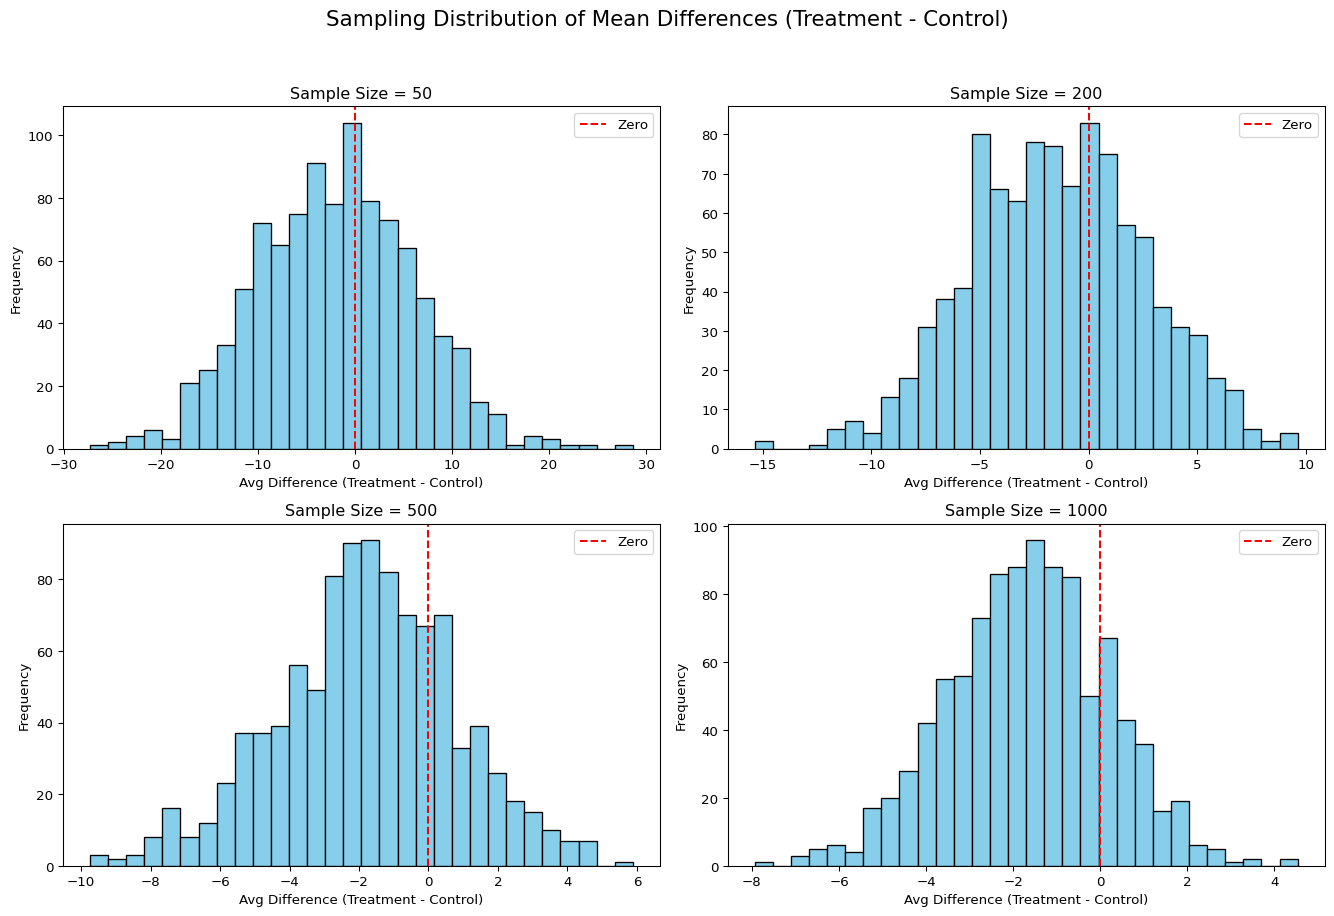
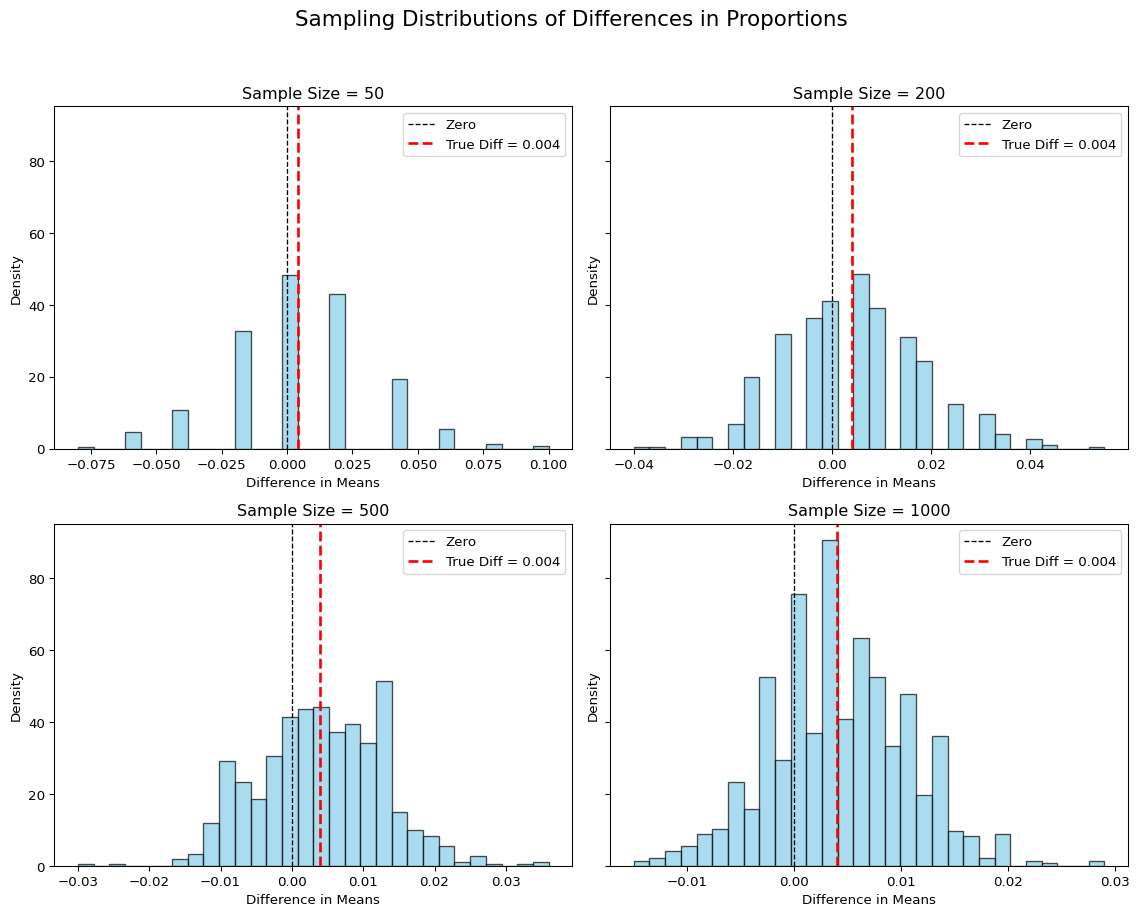
kk

diff --git a/docs/blog/hw1/hw1_questions.html b/docs/blog/hw1/hw1_questions.html
@@ -219,7 +219,7 @@ pre > code.sourceCode > span > a:first-child::before { text-decoration: underlin
 <h2 class="anchored" data-anchor-id="data">Data</h2>
 <section id="description" class="level3">
 <h3 class="anchored" data-anchor-id="description">Description</h3>
-<div id="2a9f5639" class="cell" data-execution_count="1">
+<div id="d26b7681" class="cell" data-execution_count="1">
 <details class="code-fold">
 <summary>show code</summary>
 <div class="sourceCode cell-code" id="cb1"><pre class="sourceCode python code-with-copy"><code class="sourceCode python"><span id="cb1-1"><a href="#cb1-1" aria-hidden="true" tabindex="-1"></a><span class="im">import</span> pandas <span class="im">as</span> pd</span>
@@ -468,7 +468,7 @@ Variable Definitions
 <section id="balance-test" class="level3">
 <h3 class="anchored" data-anchor-id="balance-test">Balance Test</h3>
 <p>As an ad hoc test of the randomization mechanism, I provide a series of tests that compare aspects of the treatment and control groups to assess whether they are statistically significantly different from one another.</p>
-<div id="f850cb9c" class="cell" data-execution_count="2">
+<div id="e3740725" class="cell" data-execution_count="2">
 <details class="code-fold">
 <summary>show code</summary>
 <div class="sourceCode cell-code" id="cb2"><pre class="sourceCode python code-with-copy"><code class="sourceCode python"><span id="cb2-1"><a href="#cb2-1" aria-hidden="true" tabindex="-1"></a><span class="im">import</span> statsmodels.api <span class="im">as</span> sm</span>
@@ -619,7 +619,7 @@ Variable Definitions
 <section id="charitable-contribution-made" class="level3">
 <h3 class="anchored" data-anchor-id="charitable-contribution-made">Charitable Contribution Made</h3>
 <p>First, I analyze whether matched donations lead to an increased response rate of making a donation. The donation rates in the treatment vs.&nbsp;control groups are 2.2% and 1.79%, respectively.</p>
-<div id="a3c34d58" class="cell" data-execution_count="3">
+<div id="8ff0f42c" class="cell" data-execution_count="3">
 <details class="code-fold">
 <summary>show code</summary>
 <div class="sourceCode cell-code" id="cb3"><pre class="sourceCode python code-with-copy"><code class="sourceCode python"><span id="cb3-1"><a href="#cb3-1" aria-hidden="true" tabindex="-1"></a>proportion_treatment <span class="op">=</span> df[df[<span class="st">'treatment'</span>] <span class="op">==</span> <span class="dv">1</span>][<span class="st">'gave'</span>].mean()</span>
@@ -651,7 +651,7 @@ Variable Definitions
 </div>
 </div>
 <p>Next, I utilize t-tests and linear regression to analyze if the difference in donation rate proportions are statistically significant.</p>
-<div id="0f50124b" class="cell" data-execution_count="4">
+<div id="ec62da5e" class="cell" data-execution_count="4">
 <details class="code-fold">
 <summary>show code</summary>
 <div class="sourceCode cell-code" id="cb4"><pre class="sourceCode python code-with-copy"><code class="sourceCode python"><span id="cb4-1"><a href="#cb4-1" aria-hidden="true" tabindex="-1"></a><span class="co"># --- T-</span><span class="al">TEST</span><span class="co">: Difference in proportions for binary outcome 'gave' between treatment and control ---</span></span>
@@ -719,7 +719,7 @@ Variable: treatment
 <p>When people were told their donation would be matched, they were more likely to give compared to those who did not receive the same offer. Even though the difference in donation rates is not huge, it is meaningful enough to show that the match offer was impactful on human behavior.</p>
 <p>We also ran a regression that supported the same conclusion: the offer of a match made people slightly more likely to donate.</p>
 <p>In short, match-based donation programs achieve slightly higher dconation rates than non-matched programs, suggesting that the extra push from donation matching is effective in boosting donation rates.</p>
-<div id="dedf41be" class="cell" data-execution_count="5">
+<div id="e4867406" class="cell" data-execution_count="5">
 <details class="code-fold">
 <summary>show code</summary>
 <div class="sourceCode cell-code" id="cb6"><pre class="sourceCode python code-with-copy"><code class="sourceCode python"><span id="cb6-1"><a href="#cb6-1" aria-hidden="true" tabindex="-1"></a><span class="im">import</span> statsmodels.formula.api <span class="im">as</span> smf</span>
@@ -756,7 +756,7 @@ None</code></pre>
 <section id="differences-between-match-rates" class="level3">
 <h3 class="anchored" data-anchor-id="differences-between-match-rates">Differences between Match Rates</h3>
 <p>Next, I assess the effectiveness of different sizes of matched donations on the response rate.</p>
-<div id="6d81df56" class="cell" data-execution_count="6">
+<div id="4ce90c1b" class="cell" data-execution_count="6">
 <details class="code-fold">
 <summary>show code</summary>
 <div class="sourceCode cell-code" id="cb8"><pre class="sourceCode python code-with-copy"><code class="sourceCode python"><span id="cb8-1"><a href="#cb8-1" aria-hidden="true" tabindex="-1"></a><span class="im">from</span> scipy.stats <span class="im">import</span> ttest_ind</span>
@@ -786,7 +786,7 @@ None</code></pre>
 </div>
 </div>
 <p>The t-test series analyzing the size of the match ratio suggest that there is no significant differences in donation likelihood by match ratio. This supports the authors’ findings that while the essence of a match offer does increase donation likelihood, the actual size of the match has no effect on increasing donation rates.</p>
-<div id="493a136f" class="cell" data-execution_count="7">
+<div id="417218f1" class="cell" data-execution_count="7">
 <details class="code-fold">
 <summary>show code</summary>
 <div class="sourceCode cell-code" id="cb10"><pre class="sourceCode python code-with-copy"><code class="sourceCode python"><span id="cb10-1"><a href="#cb10-1" aria-hidden="true" tabindex="-1"></a><span class="co"># Regress using 'ratio' as a categorical variable (automatically handles dummies)</span></span>
@@ -837,7 +837,7 @@ None</code></pre>
 <p>C(ratio)[T.2] = 0.0048: People who were offered a 2:1 match were more likely to donate compared to the control group. This result is statistically significant (p = 0.006), suggesting that the 2:1 offer had a real impact, but at less than half a percentage point.</p>
 <p>C(ratio)[T.3] = 0.0049: Similarly, those offered a 3:1 match were also more likely to give than people in the control group. This effect is statistically significant (p = 0.005) and about the same size as the 2:1 effect at just below half a percentage point.</p>
 <p>The regression output suggests that the differences between control, 1:1 match, 2:1 match, and 3:1 match are very small, telling us that the difference between match amounts does not impact donation probaility.</p>
-<div id="6e05b8d2" class="cell" data-execution_count="8">
+<div id="7f190181" class="cell" data-execution_count="8">
 <details class="code-fold">
 <summary>show code</summary>
 <div class="sourceCode cell-code" id="cb12"><pre class="sourceCode python code-with-copy"><code class="sourceCode python"><span id="cb12-1"><a href="#cb12-1" aria-hidden="true" tabindex="-1"></a><span class="im">import</span> statsmodels.formula.api <span class="im">as</span> smf</span>
@@ -887,7 +887,7 @@ Regression-estimated response rate differences:
 <section id="size-of-charitable-contribution" class="level3">
 <h3 class="anchored" data-anchor-id="size-of-charitable-contribution">Size of Charitable Contribution</h3>
 <p>In this subsection, I analyze the effect of the size of matched donation on the size of the charitable contribution.</p>
-<div id="2b8802fc" class="cell" data-execution_count="9">
+<div id="9364e52a" class="cell" data-execution_count="9">
 <details class="code-fold">
 <summary>show code</summary>
 <div class="sourceCode cell-code" id="cb14"><pre class="sourceCode python code-with-copy"><code class="sourceCode python"><span id="cb14-1"><a href="#cb14-1" aria-hidden="true" tabindex="-1"></a><span class="im">from</span> scipy.stats <span class="im">import</span> ttest_ind</span>
@@ -941,7 +941,7 @@ None</code></pre>
 <p>Intercept (0.8133): This is the average donation amount in the control group — around $0.81 per person (including all the zeroes from people who didn’t donate).</p>
 <p>Treatment coefficient (0.1536): This tells us that people in the treatment group gave about 15 cents more, on average, than those in the control group.</p>
 <p>The difference is marginally signficant with a p-value of 0.06, but the difference between the two values is relatively small, and we cannot definitively attribute the increase to the treatment effect.</p>
-<div id="99420586" class="cell" data-execution_count="10">
+<div id="fada5449" class="cell" data-execution_count="10">
 <details class="code-fold">
 <summary>show code</summary>
 <div class="sourceCode cell-code" id="cb16"><pre class="sourceCode python code-with-copy"><code class="sourceCode python"><span id="cb16-1"><a href="#cb16-1" aria-hidden="true" tabindex="-1"></a><span class="im">from</span> scipy.stats <span class="im">import</span> ttest_ind</span>
@@ -996,7 +996,7 @@ None</code></pre>
 <p>Treatment coefficient (-1.6684): This tells us that people in the treatment group gave about $1.67 less than those in the control group (among those who donated). However, the p-value is 0.561, which is very high, meaning this difference is not statistically significant. In other words, there’s no strong evidence that the treatment influenced how much donors gave.</p>
 <p>This analysis suggests that offering a match did not affect how much donors gave, once they decided to give. While people in the treatment group gave a little less on average, this could easily be due to random chance. The treatment seemed to influence whether people donated, but not how much they gave once they did.</p>
 <p>We can interpret causality here since the treatment was randomly assigned. However, the causality is conditional on the fact that the participant chose to donate, not generalized to the entire population.</p>
-<div id="9bf57ee8" class="cell" data-execution_count="11">
+<div id="58cc2340" class="cell" data-execution_count="11">
 <details class="code-fold">
 <summary>show code</summary>
 <div class="sourceCode cell-code" id="cb18"><pre class="sourceCode python code-with-copy"><code class="sourceCode python"><span id="cb18-1"><a href="#cb18-1" aria-hidden="true" tabindex="-1"></a><span class="im">import</span> matplotlib.pyplot <span class="im">as</span> plt</span>
@@ -1053,7 +1053,7 @@ None</code></pre>
 <p>Further suppose that the true distribution of respondents who do get a charitable donation match of any size is Bernoulli with probability p=0.022 that a donation is made.</p>
 <section id="law-of-large-numbers" class="level3">
 <h3 class="anchored" data-anchor-id="law-of-large-numbers">Law of Large Numbers</h3>
-<div id="1dc07d2e" class="cell" data-execution_count="12">
+<div id="670ebbdc" class="cell" data-execution_count="12">
 <details class="code-fold">
 <summary>show code</summary>
 <div class="sourceCode cell-code" id="cb19"><pre class="sourceCode python code-with-copy"><code class="sourceCode python"><span id="cb19-1"><a href="#cb19-1" aria-hidden="true" tabindex="-1"></a><span class="im">import</span> numpy <span class="im">as</span> np</span>
@@ -1109,47 +1109,50 @@ None</code></pre>
 </section>
 <section id="central-limit-theorem" class="level3">
 <h3 class="anchored" data-anchor-id="central-limit-theorem">Central Limit Theorem</h3>
-<div id="3b648557" class="cell" data-execution_count="13">
+<div id="8799bca5" class="cell" data-execution_count="13">
 <details class="code-fold">
 <summary>show code</summary>
 <div class="sourceCode cell-code" id="cb20"><pre class="sourceCode python code-with-copy"><code class="sourceCode python"><span id="cb20-1"><a href="#cb20-1" aria-hidden="true" tabindex="-1"></a><span class="im">import</span> numpy <span class="im">as</span> np</span>
 <span id="cb20-2"><a href="#cb20-2" aria-hidden="true" tabindex="-1"></a><span class="im">import</span> matplotlib.pyplot <span class="im">as</span> plt</span>
 <span id="cb20-3"><a href="#cb20-3" aria-hidden="true" tabindex="-1"></a></span>
-<span id="cb20-4"><a href="#cb20-4" aria-hidden="true" tabindex="-1"></a><span class="co"># Filter to only people who donated</span></span>
-<span id="cb20-5"><a href="#cb20-5" aria-hidden="true" tabindex="-1"></a>df_donors <span class="op">=</span> df[df[<span class="st">'gave'</span>] <span class="op">==</span> <span class="dv">1</span>]</span>
-<span id="cb20-6"><a href="#cb20-6" aria-hidden="true" tabindex="-1"></a></span>
-<span id="cb20-7"><a href="#cb20-7" aria-hidden="true" tabindex="-1"></a><span class="co"># Extract treatment and control donation values</span></span>
-<span id="cb20-8"><a href="#cb20-8" aria-hidden="true" tabindex="-1"></a>control <span class="op">=</span> df_donors[df_donors[<span class="st">'treatment'</span>] <span class="op">==</span> <span class="dv">0</span>][<span class="st">'amount'</span>].values</span>
-<span id="cb20-9"><a href="#cb20-9" aria-hidden="true" tabindex="-1"></a>treatment <span class="op">=</span> df_donors[df_donors[<span class="st">'treatment'</span>] <span class="op">==</span> <span class="dv">1</span>][<span class="st">'amount'</span>].values</span>
-<span id="cb20-10"><a href="#cb20-10" aria-hidden="true" tabindex="-1"></a></span>
-<span id="cb20-11"><a href="#cb20-11" aria-hidden="true" tabindex="-1"></a><span class="co"># Sample sizes and number of simulations</span></span>
-<span id="cb20-12"><a href="#cb20-12" aria-hidden="true" tabindex="-1"></a>sample_sizes <span class="op">=</span> [<span class="dv">50</span>, <span class="dv">200</span>, <span class="dv">500</span>, <span class="dv">1000</span>]</span>
-<span id="cb20-13"><a href="#cb20-13" aria-hidden="true" tabindex="-1"></a>num_simulations <span class="op">=</span> <span class="dv">1000</span></span>
-<span id="cb20-14"><a href="#cb20-14" aria-hidden="true" tabindex="-1"></a></span>
-<span id="cb20-15"><a href="#cb20-15" aria-hidden="true" tabindex="-1"></a><span class="co"># Setup 2x2 plot</span></span>
-<span id="cb20-16"><a href="#cb20-16" aria-hidden="true" tabindex="-1"></a>fig, axes <span class="op">=</span> plt.subplots(<span class="dv">2</span>, <span class="dv">2</span>, figsize<span class="op">=</span>(<span class="dv">14</span>, <span class="dv">10</span>))</span>
-<span id="cb20-17"><a href="#cb20-17" aria-hidden="true" tabindex="-1"></a>axes <span class="op">=</span> axes.flatten()</span>
-<span id="cb20-18"><a href="#cb20-18" aria-hidden="true" tabindex="-1"></a></span>
-<span id="cb20-19"><a href="#cb20-19" aria-hidden="true" tabindex="-1"></a>np.random.seed(<span class="dv">42</span>)</span>
-<span id="cb20-20"><a href="#cb20-20" aria-hidden="true" tabindex="-1"></a></span>
-<span id="cb20-21"><a href="#cb20-21" aria-hidden="true" tabindex="-1"></a><span class="cf">for</span> i, n <span class="kw">in</span> <span class="bu">enumerate</span>(sample_sizes):</span>
-<span id="cb20-22"><a href="#cb20-22" aria-hidden="true" tabindex="-1"></a>    avg_diffs <span class="op">=</span> []</span>
-<span id="cb20-23"><a href="#cb20-23" aria-hidden="true" tabindex="-1"></a>    <span class="cf">for</span> _ <span class="kw">in</span> <span class="bu">range</span>(num_simulations):</span>
-<span id="cb20-24"><a href="#cb20-24" aria-hidden="true" tabindex="-1"></a>        control_sample <span class="op">=</span> np.random.choice(control, size<span class="op">=</span>n, replace<span class="op">=</span><span class="va">True</span>)</span>
-<span id="cb20-25"><a href="#cb20-25" aria-hidden="true" tabindex="-1"></a>        treatment_sample <span class="op">=</span> np.random.choice(treatment, size<span class="op">=</span>n, replace<span class="op">=</span><span class="va">True</span>)</span>
-<span id="cb20-26"><a href="#cb20-26" aria-hidden="true" tabindex="-1"></a>        avg_diffs.append(np.mean(treatment_sample) <span class="op">-</span> np.mean(control_sample))</span>
-<span id="cb20-27"><a href="#cb20-27" aria-hidden="true" tabindex="-1"></a>    </span>
-<span id="cb20-28"><a href="#cb20-28" aria-hidden="true" tabindex="-1"></a>    ax <span class="op">=</span> axes[i]</span>
-<span id="cb20-29"><a href="#cb20-29" aria-hidden="true" tabindex="-1"></a>    ax.hist(avg_diffs, bins<span class="op">=</span><span class="dv">30</span>, color<span class="op">=</span><span class="st">'skyblue'</span>, edgecolor<span class="op">=</span><span class="st">'black'</span>)</span>
-<span id="cb20-30"><a href="#cb20-30" aria-hidden="true" tabindex="-1"></a>    ax.axvline(<span class="dv">0</span>, color<span class="op">=</span><span class="st">'red'</span>, linestyle<span class="op">=</span><span class="st">'--'</span>, label<span class="op">=</span><span class="st">'Zero'</span>)</span>
-<span id="cb20-31"><a href="#cb20-31" aria-hidden="true" tabindex="-1"></a>    ax.set_title(<span class="ss">f"Sample Size = </span><span class="sc">{</span>n<span class="sc">}</span><span class="ss">"</span>)</span>
-<span id="cb20-32"><a href="#cb20-32" aria-hidden="true" tabindex="-1"></a>    ax.set_xlabel(<span class="st">"Avg Difference (Treatment - Control)"</span>)</span>
-<span id="cb20-33"><a href="#cb20-33" aria-hidden="true" tabindex="-1"></a>    ax.set_ylabel(<span class="st">"Frequency"</span>)</span>
-<span id="cb20-34"><a href="#cb20-34" aria-hidden="true" tabindex="-1"></a>    ax.legend()</span>
-<span id="cb20-35"><a href="#cb20-35" aria-hidden="true" tabindex="-1"></a></span>
-<span id="cb20-36"><a href="#cb20-36" aria-hidden="true" tabindex="-1"></a>plt.suptitle(<span class="st">"Sampling Distribution of Mean Differences (Treatment - Control)"</span>, fontsize<span class="op">=</span><span class="dv">16</span>)</span>
-<span id="cb20-37"><a href="#cb20-37" aria-hidden="true" tabindex="-1"></a>plt.tight_layout(rect<span class="op">=</span>[<span class="dv">0</span>, <span class="fl">0.03</span>, <span class="dv">1</span>, <span class="fl">0.95</span>])</span>
-<span id="cb20-38"><a href="#cb20-38" aria-hidden="true" tabindex="-1"></a>plt.show()</span></code><button title="Copy to Clipboard" class="code-copy-button"><i class="bi"></i></button></pre></div>
+<span id="cb20-4"><a href="#cb20-4" aria-hidden="true" tabindex="-1"></a><span class="co"># --- Simulation Settings ---</span></span>
+<span id="cb20-5"><a href="#cb20-5" aria-hidden="true" tabindex="-1"></a>np.random.seed(<span class="dv">42</span>)</span>
+<span id="cb20-6"><a href="#cb20-6" aria-hidden="true" tabindex="-1"></a>p_control <span class="op">=</span> <span class="fl">0.018</span>  <span class="co"># Probability of success in control group</span></span>
+<span id="cb20-7"><a href="#cb20-7" aria-hidden="true" tabindex="-1"></a>p_treatment <span class="op">=</span> <span class="fl">0.022</span>  <span class="co"># Probability of success in treatment group</span></span>
+<span id="cb20-8"><a href="#cb20-8" aria-hidden="true" tabindex="-1"></a>sample_sizes <span class="op">=</span> [<span class="dv">50</span>, <span class="dv">200</span>, <span class="dv">500</span>, <span class="dv">1000</span>]  <span class="co"># Different sample sizes to simulate</span></span>
+<span id="cb20-9"><a href="#cb20-9" aria-hidden="true" tabindex="-1"></a>n_simulations <span class="op">=</span> <span class="dv">1000</span>  <span class="co"># Number of simulations per sample size</span></span>
+<span id="cb20-10"><a href="#cb20-10" aria-hidden="true" tabindex="-1"></a>true_diff <span class="op">=</span> p_treatment <span class="op">-</span> p_control  <span class="co"># True difference in proportions</span></span>
+<span id="cb20-11"><a href="#cb20-11" aria-hidden="true" tabindex="-1"></a></span>
+<span id="cb20-12"><a href="#cb20-12" aria-hidden="true" tabindex="-1"></a><span class="co"># --- Function to simulate sampling distribution of mean differences ---</span></span>
+<span id="cb20-13"><a href="#cb20-13" aria-hidden="true" tabindex="-1"></a><span class="kw">def</span> simulate_diffs(n, p_control, p_treatment, reps<span class="op">=</span><span class="dv">1000</span>):</span>
+<span id="cb20-14"><a href="#cb20-14" aria-hidden="true" tabindex="-1"></a>    diffs <span class="op">=</span> []</span>
+<span id="cb20-15"><a href="#cb20-15" aria-hidden="true" tabindex="-1"></a>    <span class="cf">for</span> _ <span class="kw">in</span> <span class="bu">range</span>(reps):</span>
+<span id="cb20-16"><a href="#cb20-16" aria-hidden="true" tabindex="-1"></a>        control_sample <span class="op">=</span> np.random.binomial(<span class="dv">1</span>, p_control, n)</span>
+<span id="cb20-17"><a href="#cb20-17" aria-hidden="true" tabindex="-1"></a>        treatment_sample <span class="op">=</span> np.random.binomial(<span class="dv">1</span>, p_treatment, n)</span>
+<span id="cb20-18"><a href="#cb20-18" aria-hidden="true" tabindex="-1"></a>        diff <span class="op">=</span> np.mean(treatment_sample) <span class="op">-</span> np.mean(control_sample)</span>
+<span id="cb20-19"><a href="#cb20-19" aria-hidden="true" tabindex="-1"></a>        diffs.append(diff)</span>
+<span id="cb20-20"><a href="#cb20-20" aria-hidden="true" tabindex="-1"></a>    <span class="cf">return</span> np.array(diffs)</span>
+<span id="cb20-21"><a href="#cb20-21" aria-hidden="true" tabindex="-1"></a></span>
+<span id="cb20-22"><a href="#cb20-22" aria-hidden="true" tabindex="-1"></a><span class="co"># --- Generate and Plot Histograms ---</span></span>
+<span id="cb20-23"><a href="#cb20-23" aria-hidden="true" tabindex="-1"></a>fig, axes <span class="op">=</span> plt.subplots(<span class="dv">2</span>, <span class="dv">2</span>, figsize<span class="op">=</span>(<span class="dv">12</span>, <span class="dv">10</span>), sharey<span class="op">=</span><span class="va">True</span>)</span>
+<span id="cb20-24"><a href="#cb20-24" aria-hidden="true" tabindex="-1"></a>axes <span class="op">=</span> axes.flatten()</span>
+<span id="cb20-25"><a href="#cb20-25" aria-hidden="true" tabindex="-1"></a></span>
+<span id="cb20-26"><a href="#cb20-26" aria-hidden="true" tabindex="-1"></a><span class="cf">for</span> i, n <span class="kw">in</span> <span class="bu">enumerate</span>(sample_sizes):</span>
+<span id="cb20-27"><a href="#cb20-27" aria-hidden="true" tabindex="-1"></a>    simulated_diffs <span class="op">=</span> simulate_diffs(n, p_control, p_treatment, n_simulations)</span>
+<span id="cb20-28"><a href="#cb20-28" aria-hidden="true" tabindex="-1"></a>    </span>
+<span id="cb20-29"><a href="#cb20-29" aria-hidden="true" tabindex="-1"></a>    ax <span class="op">=</span> axes[i]</span>
+<span id="cb20-30"><a href="#cb20-30" aria-hidden="true" tabindex="-1"></a>    ax.hist(simulated_diffs, bins<span class="op">=</span><span class="dv">30</span>, density<span class="op">=</span><span class="va">True</span>, alpha<span class="op">=</span><span class="fl">0.7</span>, edgecolor<span class="op">=</span><span class="st">'black'</span>, color<span class="op">=</span><span class="st">'skyblue'</span>)</span>
+<span id="cb20-31"><a href="#cb20-31" aria-hidden="true" tabindex="-1"></a>    ax.axvline(<span class="dv">0</span>, color<span class="op">=</span><span class="st">'black'</span>, linestyle<span class="op">=</span><span class="st">'--'</span>, linewidth<span class="op">=</span><span class="dv">1</span>, label<span class="op">=</span><span class="st">'Zero'</span>)</span>
+<span id="cb20-32"><a href="#cb20-32" aria-hidden="true" tabindex="-1"></a>    ax.axvline(true_diff, color<span class="op">=</span><span class="st">'red'</span>, linestyle<span class="op">=</span><span class="st">'--'</span>, linewidth<span class="op">=</span><span class="dv">2</span>, label<span class="op">=</span><span class="ss">f'True Diff = </span><span class="sc">{</span>true_diff<span class="sc">:.3f}</span><span class="ss">'</span>)</span>
+<span id="cb20-33"><a href="#cb20-33" aria-hidden="true" tabindex="-1"></a>    </span>
+<span id="cb20-34"><a href="#cb20-34" aria-hidden="true" tabindex="-1"></a>    ax.set_title(<span class="ss">f"Sample Size = </span><span class="sc">{</span>n<span class="sc">}</span><span class="ss">"</span>)</span>
+<span id="cb20-35"><a href="#cb20-35" aria-hidden="true" tabindex="-1"></a>    ax.set_xlabel(<span class="st">"Difference in Means"</span>)</span>
+<span id="cb20-36"><a href="#cb20-36" aria-hidden="true" tabindex="-1"></a>    ax.set_ylabel(<span class="st">"Density"</span>)</span>
+<span id="cb20-37"><a href="#cb20-37" aria-hidden="true" tabindex="-1"></a>    ax.legend()</span>
+<span id="cb20-38"><a href="#cb20-38" aria-hidden="true" tabindex="-1"></a></span>
+<span id="cb20-39"><a href="#cb20-39" aria-hidden="true" tabindex="-1"></a>plt.suptitle(<span class="st">"Sampling Distributions of Differences in Proportions"</span>, fontsize<span class="op">=</span><span class="dv">16</span>)</span>
+<span id="cb20-40"><a href="#cb20-40" aria-hidden="true" tabindex="-1"></a>plt.tight_layout(rect<span class="op">=</span>[<span class="dv">0</span>, <span class="fl">0.03</span>, <span class="dv">1</span>, <span class="fl">0.95</span>])</span>
+<span id="cb20-41"><a href="#cb20-41" aria-hidden="true" tabindex="-1"></a>plt.show()</span></code><button title="Copy to Clipboard" class="code-copy-button"><i class="bi"></i></button></pre></div>
 </details>
 <div class="cell-output cell-output-display">
 <div>

diff --git a/docs/projects.html b/docs/projects.html
@@ -222,7 +222,7 @@ window.Quarto = {
 
 </div></a></div>
 
-<div class="g-col-1" data-index="1" data-listing-date-sort="1744959600000" data-listing-file-modified-sort="1745447989355" data-listing-date-modified-sort="NaN" data-listing-reading-time-sort="30" data-listing-word-count-sort="5948">
+<div class="g-col-1" data-index="1" data-listing-date-sort="1744959600000" data-listing-file-modified-sort="1745454299304" data-listing-date-modified-sort="NaN" data-listing-reading-time-sort="31" data-listing-word-count-sort="6023">
 <a href="./blog/hw1/hw1_questions.html" class="quarto-grid-link">
 <div class="quarto-grid-item card h-100 card-left">
 
